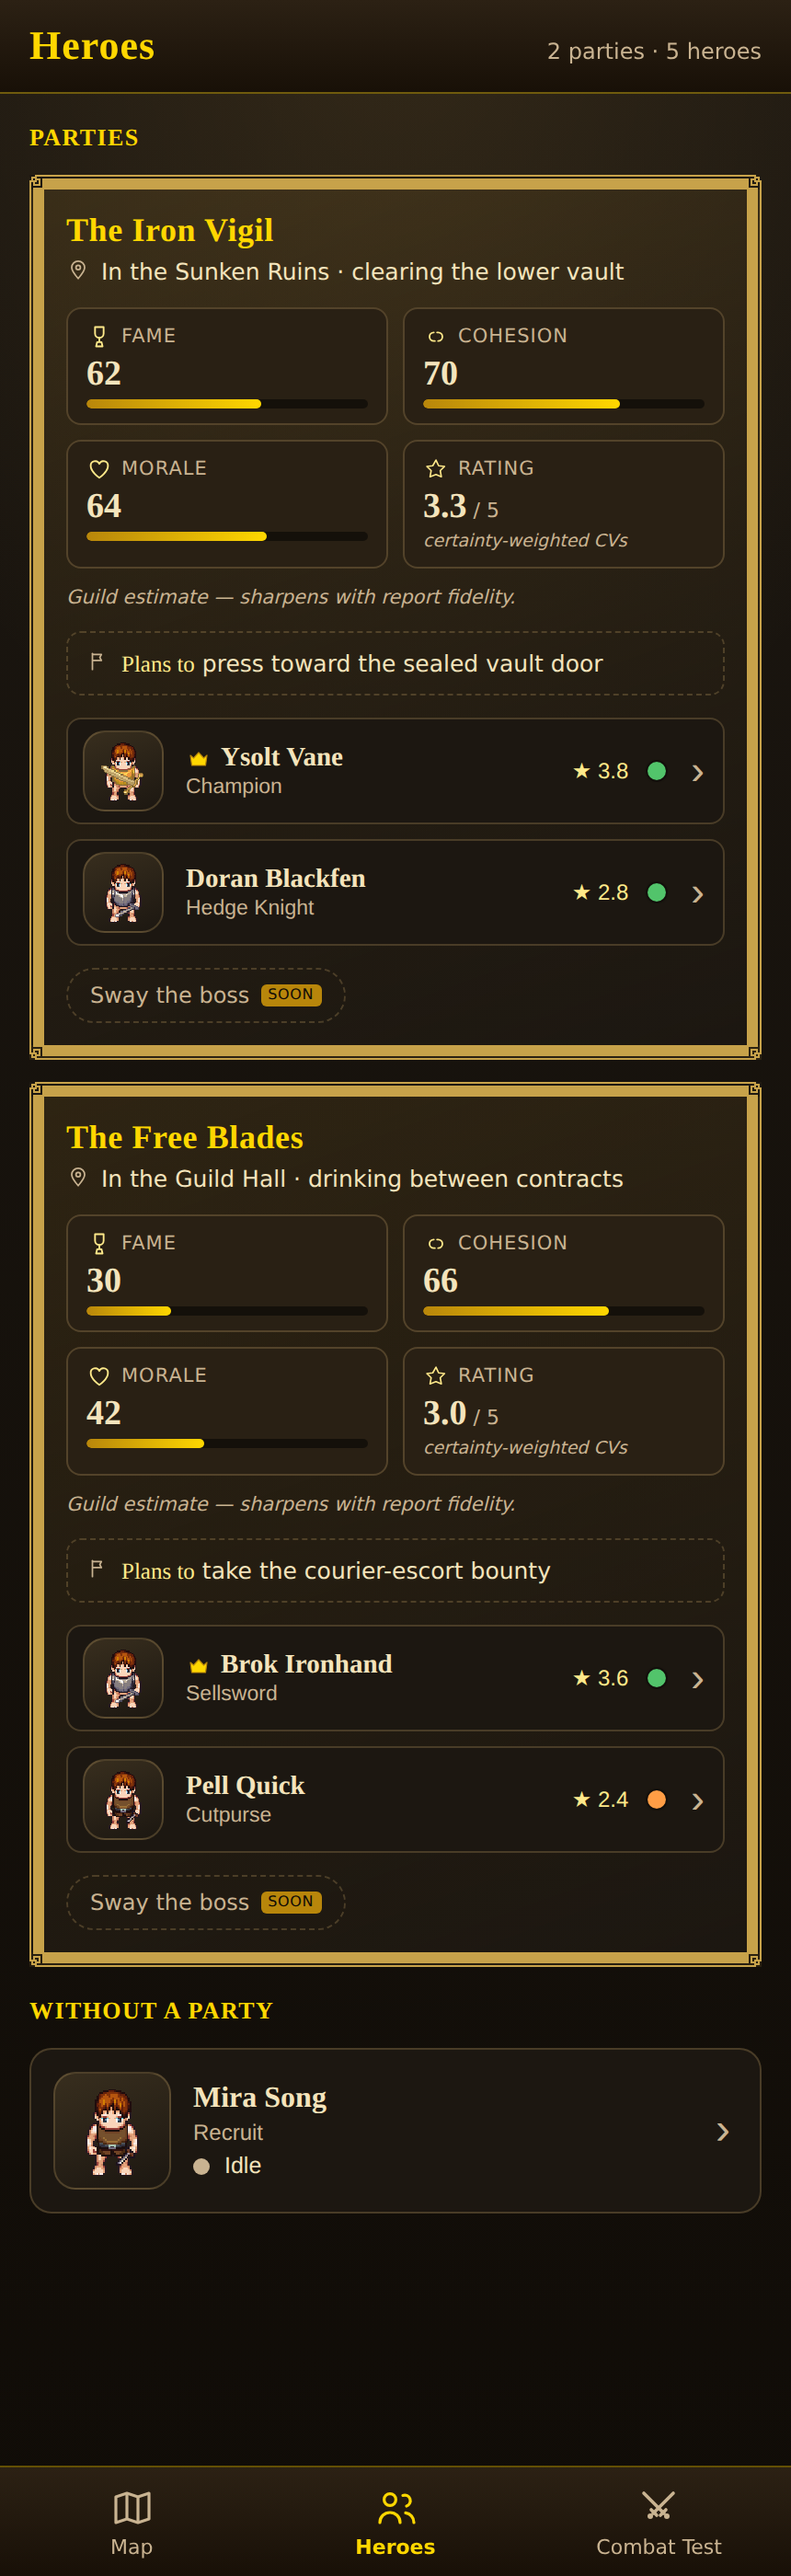
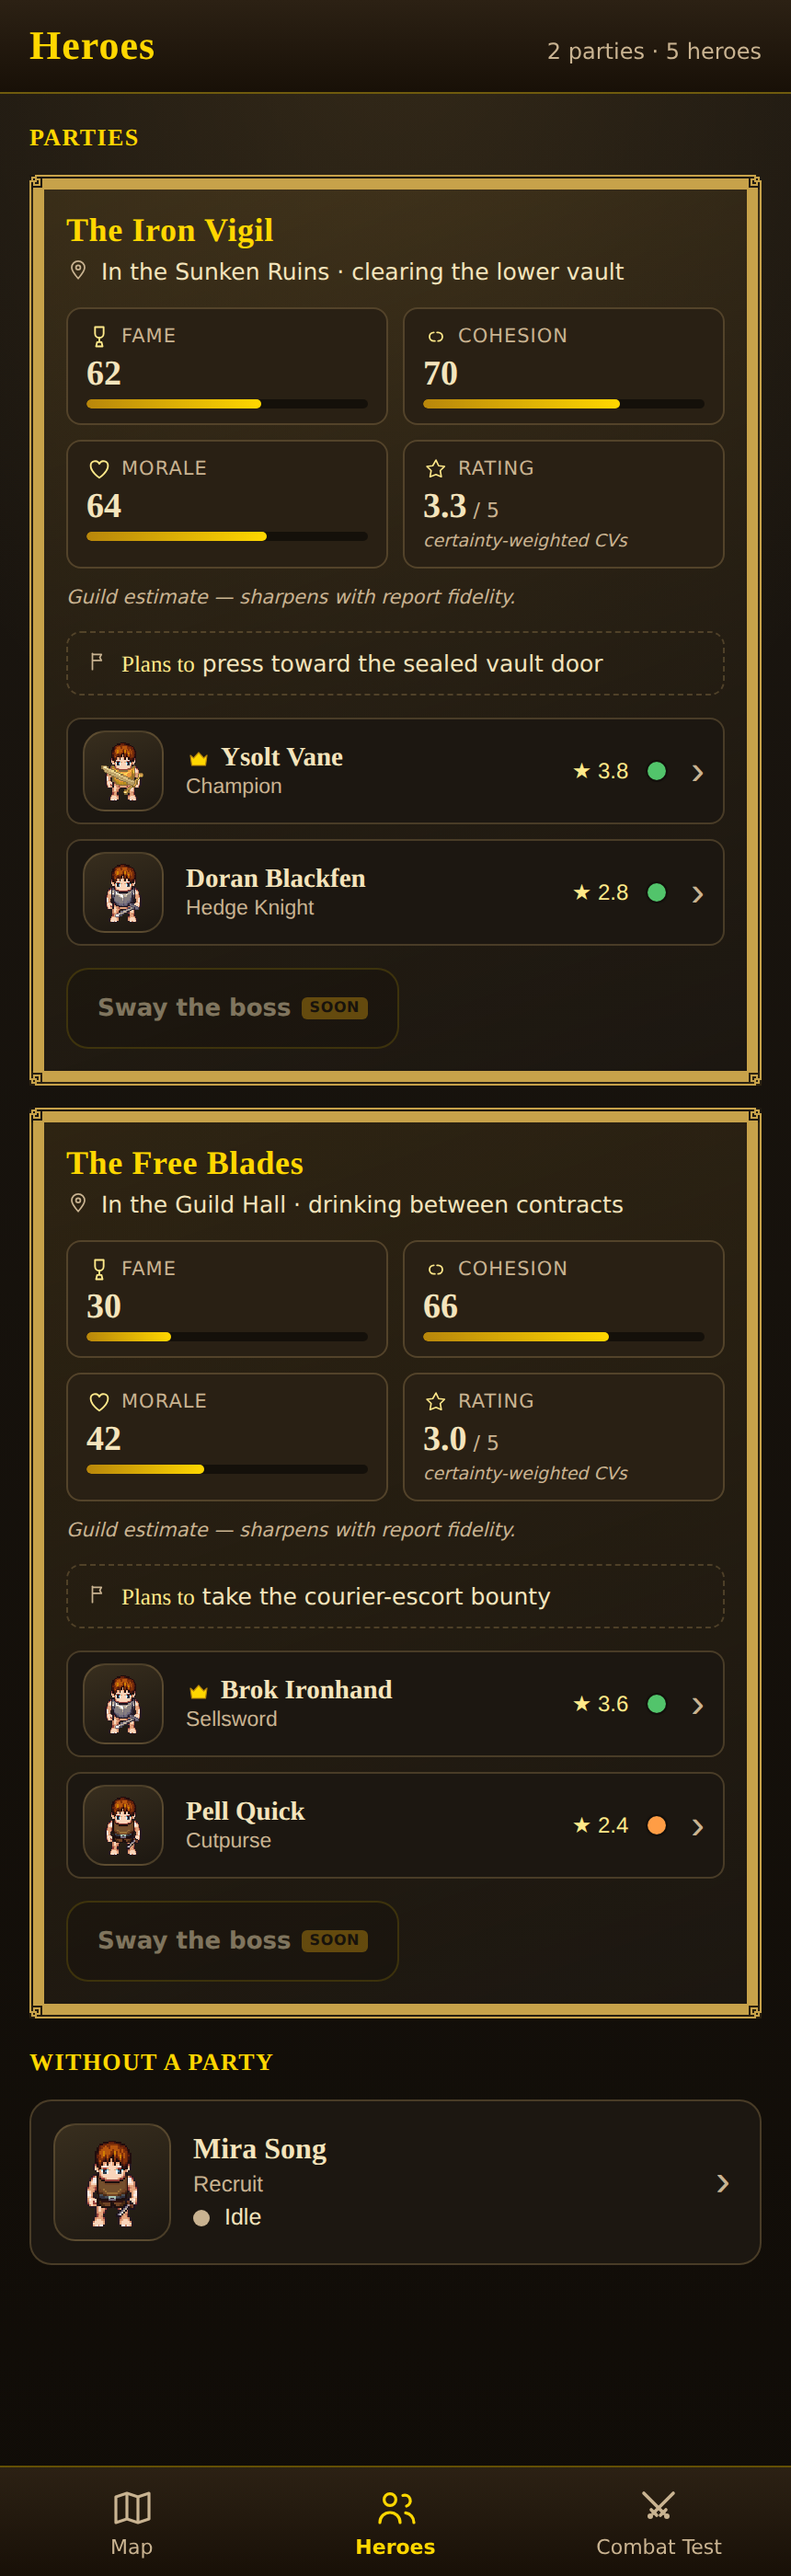
style(ui): de-purple Heroes certainty chips + traits to a teal accent
The §5 verified/claimed certainty chips and the trait badges were the last
big royal-purple on the primary screen, clashing with the warm theme. New
--cv-accent tokens (a cool teal-blue echoing the key art's gems) replace
--c-royal for the verified fill, claimed hatch, legend, trait hexagons, and
the inspect popover title. The solid / hatched / dashed encoding and the gold
borders are preserved, so the keystone read is intact — just de-purpled.

Also routes the party 'Sway the boss' lever through the kit <Button>
(secondary, disabled) so Heroes/Parties buttons share the one default system.
--c-royal is still untouched (sprites); only these UI rules moved off it.

Claude-Session: https://claude.ai/code/session_015nDwUHaHPSLAVvkERzxPPS

Changed region(s): [[0.0302, 0.3729, 0.9674, 0.87], [0.7256, 0.6214, 0.8465, 0.7146], [0.8767, 0.6525, 0.907, 0.7146]]

diff --git a/web/src/ui/heroes/HeroCard.module.css b/web/src/ui/heroes/HeroCard.module.css
@@ -188,7 +188,7 @@
   font-family: var(--font-display);
   font-size: 14px;
   font-weight: 700;
-  color: var(--c-royal-deep);
+  color: var(--cv-accent-deep);
 }
 .popEffect {
   font-size: 12.5px;
@@ -222,9 +222,9 @@
 .statLabel { font-size: 12px; letter-spacing: 0.5px; color: var(--text-dim); }
 .statValue { font-family: var(--font-display); font-size: 20px; font-weight: 700; color: var(--text-strong); }
 .statTag { margin-left: auto; font-size: 9px; text-transform: uppercase; letter-spacing: 0.4px; opacity: 0.8; }
-.stat[data-certainty="verified"] { background: var(--c-royal); border-color: var(--c-gold); }
+.stat[data-certainty="verified"] { background: var(--cv-accent); border-color: var(--c-gold); }
 .stat[data-certainty="claimed"] {
-  background: repeating-linear-gradient(45deg, rgba(157, 107, 232, 0.55) 0 6px, rgba(157, 107, 232, 0.12) 6px 12px);
+  background: repeating-linear-gradient(45deg, var(--cv-hatch) 0 6px, var(--cv-hatch-dim) 6px 12px);
   border-color: var(--stroke-gold);
 }
 .stat[data-certainty="rumor"] { background: transparent; border-style: dashed; border-color: var(--stroke-soft); }
@@ -241,8 +241,8 @@
 }
 .legend span[data-swatch] { width: 16px; height: 12px; border-radius: 3px; border: 1px solid var(--stroke-soft); margin-left: 8px; }
 .legend span[data-swatch]:first-child { margin-left: 0; }
-.legend span[data-swatch="verified"] { background: var(--c-royal); border-color: var(--c-gold); }
-.legend span[data-swatch="claimed"] { background: repeating-linear-gradient(45deg, rgba(157, 107, 232, 0.55) 0 4px, rgba(157, 107, 232, 0.12) 4px 8px); }
+.legend span[data-swatch="verified"] { background: var(--cv-accent); border-color: var(--c-gold); }
+.legend span[data-swatch="claimed"] { background: repeating-linear-gradient(45deg, var(--cv-hatch) 0 4px, var(--cv-hatch-dim) 4px 8px); }
 .legend span[data-swatch="rumor"] { background: transparent; border-style: dashed; }
 
 /* --- Traits --------------------------------------------------------------- */
@@ -286,7 +286,7 @@
   padding: var(--sp-3);
   border-radius: var(--r-md);
   border: 1px solid var(--stroke-gold);
-  background: linear-gradient(160deg, rgba(106, 47, 191, 0.28), var(--surface-2));
+  background: linear-gradient(160deg, rgba(214, 164, 62, 0.16), var(--surface-2));
 }
 .guildHead {
   display: flex;

diff --git a/web/src/ui/heroes/PartyCard.tsx b/web/src/ui/heroes/PartyCard.tsx
@@ -15,7 +15,7 @@ import type { Hero } from "./mockHeroes";
 import type { PartyView } from "./mockParties";
 import { heroMood } from "./mockParties";
 import { HeroSprite } from "./HeroSprite";
-import { Panel } from "../kit";
+import { Panel, Button } from "../kit";
 import styles from "./PartyCard.module.css";
 
 export function PartyCard({ view, onOpen }: { view: PartyView; onOpen: (id: string) => void }) {
@@ -61,12 +61,12 @@ export function PartyCard({ view, onOpen }: { view: PartyView; onOpen: (id: stri
           (§6). A real disabled control (out of the tab order, announced disabled),
           styled subdued so it never reads as a live action. */}
       <div className={styles.actions}>
-        <button type="button" className={styles.sway} disabled aria-label="Sway the boss — coming soon">
+        <Button variant="secondary" className={styles.sway} disabled aria-label="Sway the boss — coming soon">
           Sway the boss
           <span className={styles.soon} aria-hidden>
             soon
           </span>
-        </button>
+        </Button>
       </div>
     </Panel>
   );

diff --git a/web/src/ui/theme/tokens.css b/web/src/ui/theme/tokens.css
@@ -27,6 +27,15 @@
   --bronze: #5f4527;
   --ink-gold: #2a1d0c;
 
+  /* Certainty / trait accent — a cool teal-blue (echoing the key art's gem &
+     magic), replacing royal-purple for the §5 verified/claimed chips and trait
+     badges so they de-purple onto the warm theme while staying distinct. Solid =
+     verified, hatched = claimed, dashed = rumor is preserved by the chip styles. */
+  --cv-accent: #2d7593;
+  --cv-accent-deep: #163f52;
+  --cv-hatch: rgba(96, 176, 206, 0.55);
+  --cv-hatch-dim: rgba(96, 176, 206, 0.12);
+
   /* Surfaces — warm charcoal/brown, aligned to the "Asset Report" key art
      (gold-on-dark, no royal-purple). Sprite + combat-semantic tokens below are
      left unchanged, so hero sprites and HP colours are untouched. */

diff --git a/web/src/ui/heroes/HeroCard.tsx b/web/src/ui/heroes/HeroCard.tsx
@@ -399,7 +399,7 @@ function ComingSoon({ title, line }: { title: string; line: string }) {
 function TraitToken({ initial }: { initial: string }) {
   return (
     <svg className={styles.traitGlyph} viewBox="0 0 32 32" width="32" height="32" aria-hidden>
-      <polygon points="16,3 28,10 28,22 16,29 4,22 4,10" fill="var(--c-royal)" stroke="var(--c-gold)" strokeWidth="1.5" />
+      <polygon points="16,3 28,10 28,22 16,29 4,22 4,10" fill="var(--cv-accent)" stroke="var(--c-gold)" strokeWidth="1.5" />
       <text x="16" y="17" textAnchor="middle" dominantBaseline="central" fill="var(--c-gold-light)" fontFamily="var(--font-display)" fontSize="13" fontWeight="700">
         {initial}
       </text>

diff --git a/web/src/ui/heroes/PartyCard.module.css b/web/src/ui/heroes/PartyCard.module.css
@@ -231,18 +231,11 @@
 .actions {
   display: flex;
 }
+/* The disabled coming-soon lever now uses the kit <Button> (secondary); this
+   only tweaks it to sit inline with its "soon" badge. */
 .sway {
-  display: inline-flex;
-  align-items: center;
   gap: 6px;
-  padding: 7px 12px;
-  border-radius: var(--r-pill);
-  border: 1px dashed var(--stroke-soft);
-  background: transparent;
-  color: var(--text-dim);
-  font-family: var(--font-ui);
-  font-size: 12px;
-  cursor: not-allowed;
+  font-size: 13px;
 }
 .soon {
   font-size: 8px;
